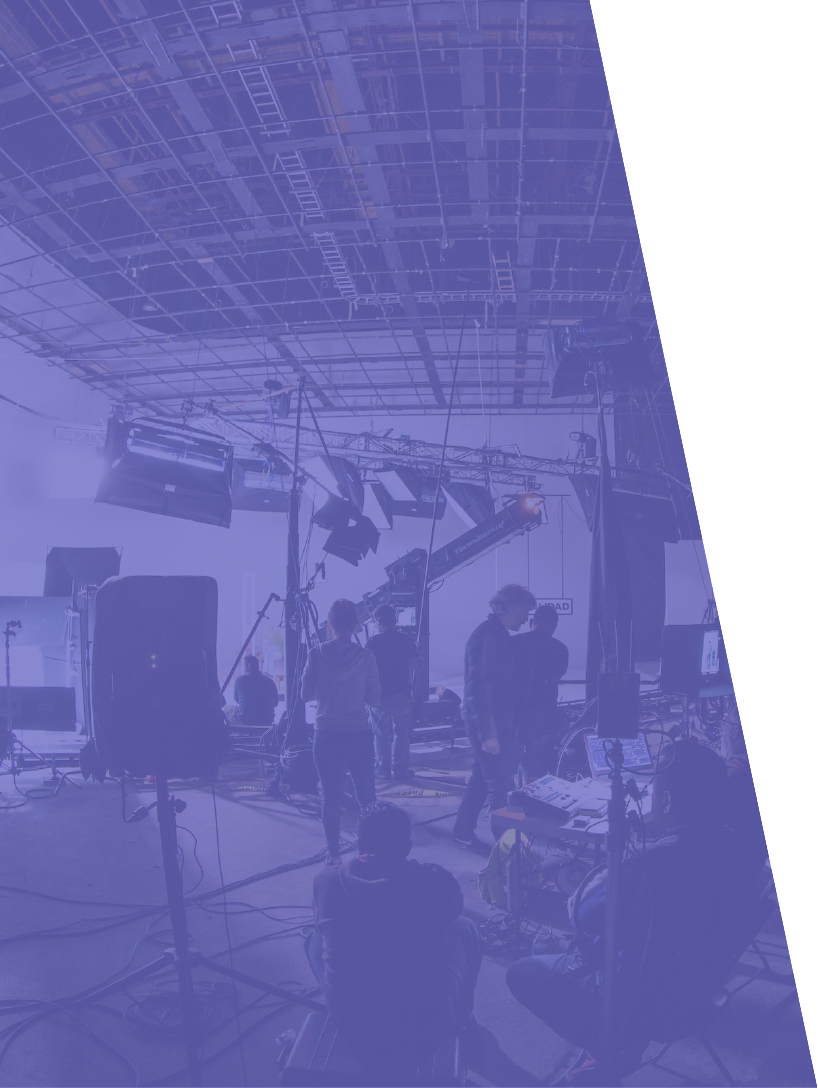
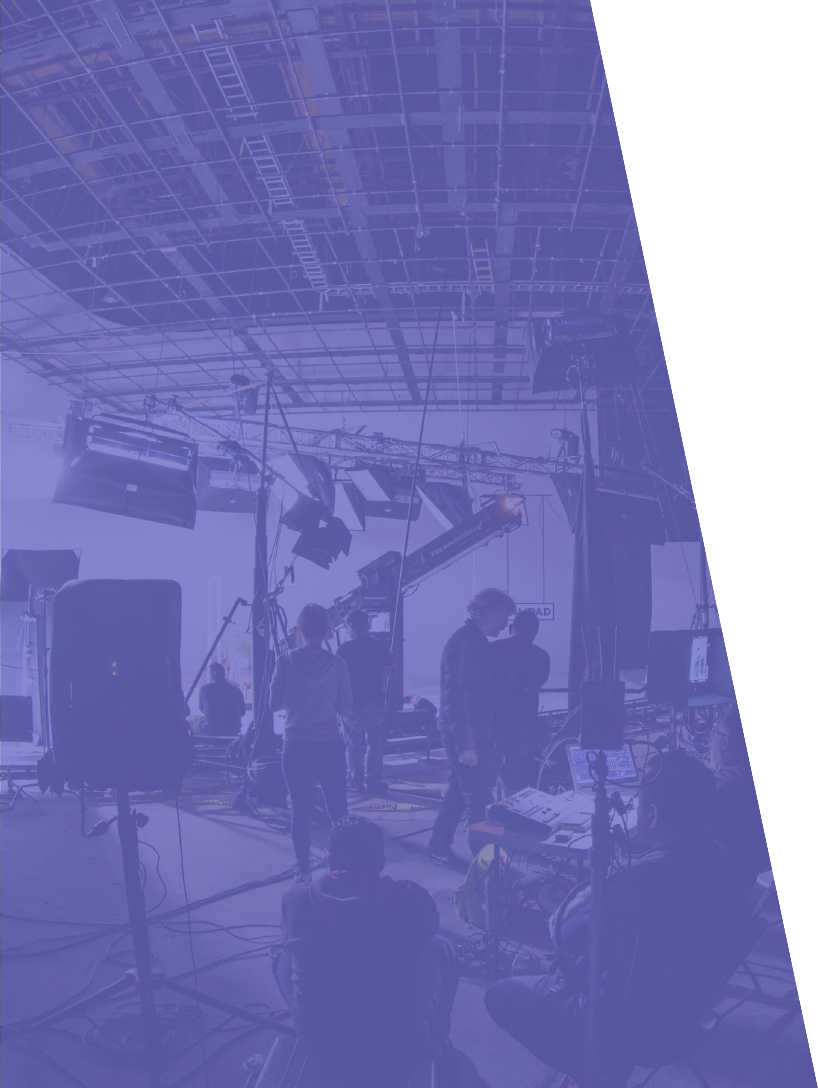
bug-fix-#257 try new png

diff --git a/src/components/landingPage/About.jsx b/src/components/landingPage/About.jsx
@@ -3,13 +3,13 @@ import Image from 'next/image'
 // const aboutDesktop = '/public/images/landingPage/aboutDesktop.png'
 // const aboutMobile = '/public/images/landingPage/aboutMobilePhoto.png'
 
-import aboutDesktop from '~/../public/images/landing-page/aboutDesktop-new.png'
+import aboutDesktop from '~/../public/images/landing-page/aboutDesktop-new.svg'
 import aboutMobile from '~/../public/images/landing-page/aboutMobile-new.svg'
 
 const About = () => {
   return (
     <div className='grid md:grid-cols-2 overflow-hidden bg-arc'>
-      <Image src={aboutDesktop} alt='' aria-hidden='true' className='hidden relative h-full md:block'
+      <Image src={aboutDesktop} alt='' aria-hidden='true' className='hidden relative h-full w-full md:block'
         style={
           {
             objectFit: 'cover',

diff --git a/src/pages/sign-in.tsx b/src/pages/sign-in.tsx
@@ -6,7 +6,7 @@ import Button from "~/components/Button";
 import TextInputField from "~/components/TextInputField/NonRefBorderedTextField";
 import Head from "next/head";
 
-const signInImageUrl = "/images/sign-in-page/desktop-new.png";
+const signInImageUrl = "/images/sign-in-page/desktop-new.svg";
 
 const SignInPage: NextPage = () => {
   return (
